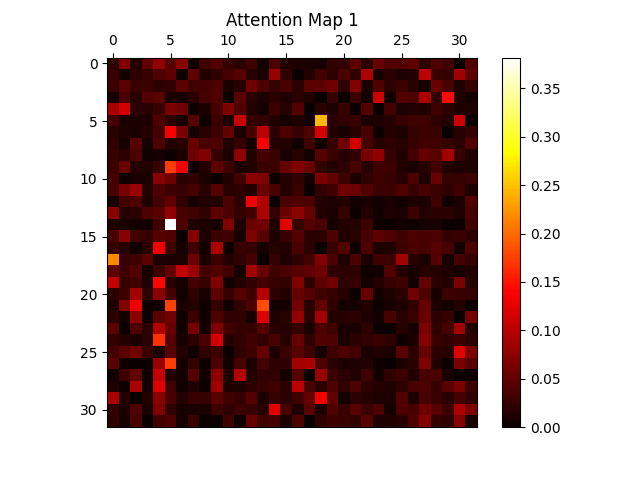
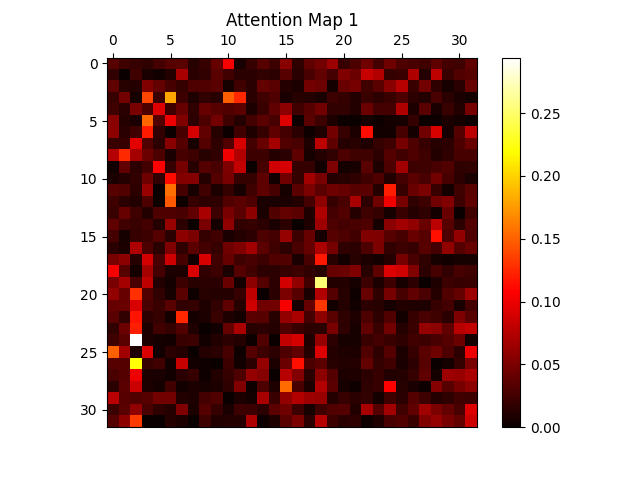
sanity

diff --git a/transformer.py b/transformer.py
@@ -9,19 +9,47 @@ n_head = 2   # Number of attention heads
 n_layer = 4  # Number of transformer layers
 
 # Transformer Decoder for Part 2
+
+# Custom Decoder Layer to extract attention weights
+class CustomTransformerDecoderLayer(nn.TransformerDecoderLayer):
+	def __init__(self, *args, **kwargs):
+		super().__init__(*args, **kwargs)
+		self.self_attn_weights = None
+
+	def forward(self, tgt, memory, tgt_mask=None, memory_mask=None,
+				tgt_key_padding_mask=None, memory_key_padding_mask=None):
+		# Self-attention
+		tgt2, attn_weights = self.self_attn(
+			tgt, tgt, tgt,
+			attn_mask=tgt_mask,
+			key_padding_mask=tgt_key_padding_mask,
+			need_weights=True,
+			average_attn_weights=False
+		)
+		self.self_attn_weights = attn_weights  # (batch, num_heads, seq, seq)
+		tgt = tgt + self.dropout1(tgt2)
+		tgt = self.norm1(tgt)
+		# Cross-attention (not used here, memory is zeros)
+		tgt2 = self.linear2(self.dropout(self.activation(self.linear1(tgt))))
+		tgt = tgt + self.dropout2(tgt2)
+		tgt = self.norm2(tgt)
+		return tgt
+
 class TransformerDecoder(nn.Module):
 	def __init__(self, vocab_size, n_embd=n_embd, n_head=n_head, n_layer=n_layer, max_seq_len=32, ff_hidden_dim=100):
 		super().__init__()
 		self.token_emb = nn.Embedding(vocab_size, n_embd)
 		self.pos_emb = nn.Embedding(max_seq_len, n_embd)
-		decoder_layer = nn.TransformerDecoderLayer(
-			d_model=n_embd,
-			nhead=n_head,
-			dim_feedforward=ff_hidden_dim,
-			activation='relu',
-			batch_first=True
-		)
-		self.transformer_decoder = nn.TransformerDecoder(decoder_layer, num_layers=n_layer)
+		decoder_layers = nn.ModuleList([
+			CustomTransformerDecoderLayer(
+				d_model=n_embd,
+				nhead=n_head,
+				dim_feedforward=ff_hidden_dim,
+				activation='relu',
+				batch_first=True
+			) for _ in range(n_layer)
+		])
+		self.decoder_layers = decoder_layers
 		self.n_embd = n_embd
 		self.max_seq_len = max_seq_len
 		self.lm_head = nn.Linear(n_embd, vocab_size)
@@ -32,25 +60,30 @@ class TransformerDecoder(nn.Module):
 		mask = mask.masked_fill(mask == 1, float('-inf'))
 		return mask
 
-	def forward(self, x, targets=None):
+	def forward(self, x, targets=None, return_attn=False):
 		# x: (batch_size, seq_len)
+		attn_maps = []
 		batch_size, seq_len = x.size()
 		positions = torch.arange(0, seq_len, device=x.device).unsqueeze(0).expand(batch_size, seq_len)
 		tok_emb = self.token_emb(x)
 		pos_emb = self.pos_emb(positions)
 		h = tok_emb + pos_emb
-		# Masked self-attention
 		tgt_mask = self.generate_square_subsequent_mask(seq_len).to(x.device)
-		# No encoder input, so use zeros as memory
 		memory = torch.zeros(batch_size, seq_len, self.n_embd, device=x.device)
-		out = self.transformer_decoder(h, memory, tgt_mask=tgt_mask)
-		logits = self.lm_head(out)
+		for layer in self.decoder_layers:
+			h = layer(h, memory, tgt_mask=tgt_mask)
+			if hasattr(layer, 'self_attn_weights') and layer.self_attn_weights is not None:
+				attn_maps.append(layer.self_attn_weights.detach().cpu())
+		logits = self.lm_head(h)
 		if targets is not None:
-			# Shift logits and targets for language modeling
 			logits = logits[:, :-1, :].contiguous()
 			targets = targets[:, 1:].contiguous()
 			loss = F.cross_entropy(logits.view(-1, logits.size(-1)), targets.view(-1), ignore_index=0)
+			if return_attn:
+				return loss, attn_maps
 			return loss
+		if return_attn:
+			return logits, attn_maps
 		return logits
 
 # Hyperparameters (should match those in main.py)

diff --git a/attention_sanity_check.py b/attention_sanity_check.py
@@ -1,5 +1,7 @@
 from utilities import Utilities
+import sys
 from transformer import TransformerEncoder
+# from transformer import AliBiTransformerEncoder, SparseAttentionEncoder, ... (add your custom encoders here)
 from tokenizer import SimpleTokenizer
 import torch
 
@@ -11,10 +13,24 @@ if __name__ == "__main__":
     ]
     block_size = 32
 
+
     # Load tokenizer and encoder as in main.py
     texts = [sentences[0] + " " + sentences[1]]  # Just to build vocab
     tokenizer = SimpleTokenizer(' '.join(texts))
-    encoder = TransformerEncoder(tokenizer.vocab_size, max_seq_len=block_size)
+
+    # Select encoder based on command-line argument
+    encoder_type = "part1"
+    if len(sys.argv) > 1:
+        encoder_type = sys.argv[1].lower()
+
+    if encoder_type == "part3":
+        print("Using custom encoder for part 3 (replace with your architecture)")
+        # Replace the next line with your custom encoder, e.g. AliBiTransformerEncoder
+        # encoder = AliBiTransformerEncoder(tokenizer.vocab_size, max_seq_len=block_size)
+        encoder = TransformerEncoder(tokenizer.vocab_size, max_seq_len=block_size)  # Placeholder: update as needed
+    else:
+        print("Using standard TransformerEncoder (part 1)")
+        encoder = TransformerEncoder(tokenizer.vocab_size, max_seq_len=block_size)
 
     # Patch encoder to return attention maps for utilities.py compatibility
     class EncoderWithAttn(torch.nn.Module):

diff --git a/decoder_attention_sanity_check.py b/decoder_attention_sanity_check.py
@@ -1,0 +1,35 @@
+from utilities import Utilities
+from transformer import TransformerDecoder
+from tokenizer import SimpleTokenizer
+import torch
+
+if __name__ == "__main__":
+    # Example sentences for decoder attention visualization
+    sentences = [
+        "That is in Israel's interest, Palestine's interest, America's interest, and the world's interest.",
+        "They want to work, and they can work, and this is a tremendous pool of people."
+    ]
+    block_size = 32
+
+    # Build vocab from sentences
+    texts = [sentences[0] + " " + sentences[1]]
+    tokenizer = SimpleTokenizer(' '.join(texts))
+    decoder = TransformerDecoder(tokenizer.vocab_size, max_seq_len=block_size)
+
+    class DecoderWithAttn(torch.nn.Module):
+        def __init__(self, decoder):
+            super().__init__()
+            self.decoder = decoder
+        def forward(self, x):
+            # Only return self-attention maps
+            logits, attn_maps = self.decoder(x, return_attn=True)
+            # attn_maps: list of (batch, num_heads, seq, seq)
+            flat_maps = [m.mean(1, keepdim=True) for m in attn_maps] if attn_maps else []
+            return logits, flat_maps
+
+    decoder_with_attn = DecoderWithAttn(decoder)
+    utils = Utilities(tokenizer, decoder_with_attn)
+
+    for sent in sentences:
+        print(f"Sanity checking decoder attention for: {sent}")
+        utils.sanity_check(sent, block_size)

diff --git a/README.md b/README.md
@@ -1,46 +1,3 @@
-# Transformer-Based Speech Classification & Language Modeling
-
-A from-scratch implementation of Transformer Encoder and Decoder models applied to two NLP tasks: speaker classification and language modeling on political speech data.
-
----
-
-## Project Structure
-
-```
-.
-├── main.py                   # Entry point — runs Part 1, 2, or 3
-├── transformer.py            # TransformerEncoder, TransformerDecoder, ALiBiTransformerEncoder
-├── classifier.py             # Feedforward classifier head (1 hidden layer)
-├── tokenizer.py              # Simple word-level tokenizer
-├── dataset.py                # Dataset classes for classification and LM tasks
-├── utilities.py              # Attention map visualization utilities
-├── attention_sanity_check.py # Standalone script to visualize attention maps
-└── speechesdataset/
-    ├── train_CLS.tsv         # Classification training data  (label \t text)
-    ├── test_CLS.tsv          # Classification test data
-    ├── train_LM.txt          # Language modeling training text
-    ├── test_LM_obama.txt     # LM test set — Obama speeches
-    ├── test_LM_wbush.txt     # LM test set — W. Bush speeches
-    └── test_LM_hbush.txt     # LM test set — H. Bush speeches
-```
-
----
-
-## Requirements
-
-- Python 3.8+
-- PyTorch
-- NLTK (for tokenization)
-
-Install dependencies:
-
-```bash
-pip install torch nltk
-python -c "import nltk; nltk.download('punkt')"
-```
-
----
-
 ## How to Run
 
 The entire project is controlled through a single entry point, `main.py`. Pass a part argument to select which experiment to run.
@@ -58,18 +15,6 @@ python main.py
 - Trains `TransformerEncoder` + `FeedforwardClassifier` jointly using cross-entropy loss
 - Reports train accuracy, test accuracy, and final parameter count
 
-**Expected output:**
-```
-Loading data and creating tokenizer ...
-Vocabulary size is XXXX
-Epoch 1/15 | Loss: 1.0843 | Train Accuracy: 45.23% | Test Accuracy: 42.10%
-...
-Epoch 15/15 | Loss: 0.3012 | Train Accuracy: 91.40% | Test Accuracy: 78.50%
-Final Test Accuracy: 78.50%
-Number of parameters in encoder: XXXXX
-```
-
----
 
 ### Part 2 — Decoder + Language Modeling
 
@@ -84,23 +29,6 @@ python main.py part2
 - Evaluates train and test perplexity every 100 iterations
 - Reports final perplexity separately for Obama, W. Bush, and H. Bush test sets
 
-**Expected output:**
-```
-Running Part 2: Decoder Implementation
-Vocabulary size is XXXX
-Number of parameters in decoder: XXXXX
-Training decoder...
-Iter 100: Train Perplexity 245.32
-Iter 100: Test Perplexity (Obama): 312.45
-...
-Final Train Perplexity: 98.21
-Final Test Perplexity (Obama): 187.34
-Final Test Perplexity (W. Bush): 201.12
-Final Test Perplexity (H. Bush): 195.67
-```
-
----
-
 ### Part 3 — Architectural Exploration (ALiBi + Local Window Attention)
 
 Trains the same classification task as Part 1, but swaps in `ALiBiTransformerEncoder` — a modified encoder that replaces learned positional embeddings with **ALiBi (Attention with Linear Biases)** and optionally restricts attention to a **local window**.
@@ -108,35 +36,18 @@ Trains the same classification task as Part 1, but swaps in `ALiBiTransformerEnc
 ```bash
 python main.py part3
 ```
+## Attention Sanity Check
+Visualizes attention maps for two example sentences. Saves heatmap images (attention_map_1.png, attention_map_2.png, etc.) to the working directory.
 
-**What it does:**
-- Uses `ALiBiTransformerEncoder` instead of `TransformerEncoder`
-- No learned positional embedding — positions are encoded as per-head distance penalties on attention logits
-- Reports parameter count (should be ~2,048 fewer than Part 1 due to removed `pos_emb`)
-- Trains and evaluates the classifier identically to Part 1
-
-**Expected output:**
-```
-Running Part 3: Architectural Exploration (ALiBi + Local Window Attention)
-Vocabulary size is XXXX
-Number of parameters in ALiBi encoder: XXXXX
-Training ALiBi encoder + classifier...
-Epoch 1/15 | Loss: 1.0712 | Train Acc: 46.10% | Test Acc: 43.20%
-...
-Final Test Accuracy (ALiBi): 79.30%
-```
-
----
-
-### Attention Sanity Check
-
-Visualizes attention maps for two example sentences. Saves heatmap images (`attention_map_1.png`, `attention_map_2.png`, etc.) to the working directory.
-
-```bash
+For part 1 (default encoder): 
 python attention_sanity_check.py
-```
 
----
+For part 3 (custom encoder):
+python attention_sanity_check.py part 3
+
+For part 2 :
+python decoder_attention_sanity_check.py
+
 
 ## Model Architecture
 
@@ -181,42 +92,3 @@ encoder = ALiBiTransformerEncoder(..., window=None)
 # Local window of width 8
 encoder = ALiBiTransformerEncoder(..., window=8)
 ```
-
----
-
-## Hyperparameters
-
-| Parameter | Value | Description |
-|---|---|---|
-| `batch_size` | 16 | Sequences processed in parallel |
-| `block_size` | 32 | Max sequence / context length |
-| `learning_rate` | 1e-3 | Adam optimizer LR |
-| `n_embd` | 64 | Embedding dimension |
-| `n_head` | 2 | Attention heads |
-| `n_layer` | 4 | Transformer layers |
-| `epochs_CLS` | 15 | Classification training epochs |
-| `max_iters` | 500 | LM training iterations |
-| `eval_interval` | 100 | LM perplexity eval frequency |
-
----
-
-## Dataset Format
-
-**Classification (`train_CLS.tsv`, `test_CLS.tsv`):** Tab-separated, one sample per line.
-```
-0	We must invest in our schools and our teachers.
-1	We will work to keep America safe and free.
-2	The strength of our nation lies in our people.
-```
-Labels: `0` = Obama, `1` = W. Bush, `2` = H. Bush
-
-**Language Modeling (`train_LM.txt`, `test_LM_*.txt`):** Plain text files used for next-token prediction. Each sample is a sliding window of `block_size` tokens.
-
----
-
-## References
-
-- Press et al. (2022). *Train Short, Test Long: Attention with Linear Biases Enables Input Length Extrapolation.* ICLR 2022.
-- Beltagy et al. (2020). *Longformer: The Long-Document Transformer.* arXiv:2004.05150.
-- He et al. (2021). *DeBERTa: Decoding-enhanced BERT with Disentangled Attention.* ICLR 2021.
-- Vaswani et al. (2017). *Attention Is All You Need.* NeurIPS 2017.
